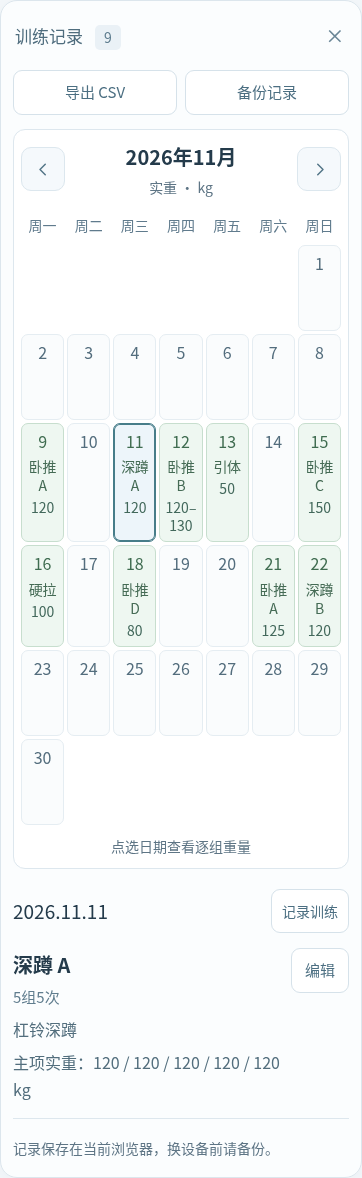
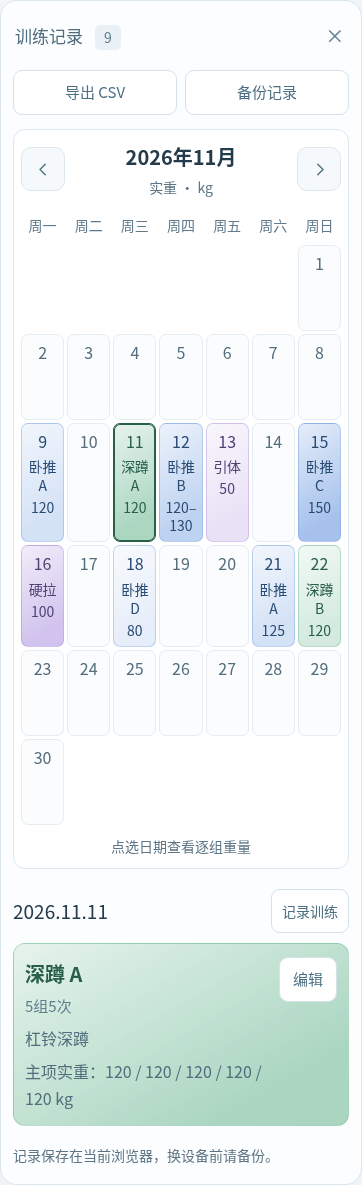
同步训练月历与模板配色

diff --git a/index.html b/index.html
@@ -61,26 +61,29 @@ h1 { font-size: 38px; font-weight: 600; line-height: 1.3; }
 .bench-templates,.other-templates { display: grid; grid-template-columns: repeat(4,minmax(240px,1fr)); gap: 18px; min-width: 0; overflow-x: auto; padding-bottom: 8px; scroll-snap-type: x proximity; }
 .calendar-cell { scroll-snap-align: start; }
 .equipment-note { display: block; margin-top: 14px; color: #456f65; font-size: 14px; line-height: 1.6; }
-.calendar-cell {
+[data-tone] {
   --card-rgb: 95 145 221;
   --card-ink: #284b74;
   --card-tint: .30;
+  --card-glass: linear-gradient(150deg,#ffffffbb,#ffffff1a 80%),rgb(var(--card-rgb) / var(--card-tint));
+}
+[data-tone="bench-c"] { --card-tint: .62; }
+[data-tone="bench-b"] { --card-tint: .46; }
+[data-tone="bench-d"] { --card-tint: .17; }
+[data-tone="squat-a"],[data-tone="squat-b"] { --card-rgb: 79 170 125; --card-ink: #285f48; }
+[data-tone="squat-a"] { --card-tint: .53; }
+[data-tone="squat-b"] { --card-tint: .27; }
+[data-tone="deadlift"],[data-tone="back"] { --card-rgb: 154 122 216; --card-ink: #514074; }
+[data-tone="deadlift"] { --card-tint: .50; }
+[data-tone="back"] { --card-tint: .25; }
+.calendar-cell {
   display: flex; flex-direction: column; min-width: 0; padding: 23px;
   border: 1px solid rgb(var(--card-rgb) / .34); border-radius: 17px;
-  background: linear-gradient(150deg,#ffffffbb,#ffffff1a 80%),rgb(var(--card-rgb) / var(--card-tint));
+  background: var(--card-glass);
   color: var(--ink); text-align: left;
   box-shadow: inset 0 1px 0 #ffffffd9,0 6px 18px #2843570a;
   transition: border-color .18s,box-shadow .18s,transform .18s;
 }
-[data-template="bench-c"] { --card-tint: .62; }
-[data-template="bench-b"] { --card-tint: .46; }
-[data-template="bench-d"] { --card-tint: .17; }
-[data-template="squat-a"],[data-template="squat-b"] { --card-rgb: 79 170 125; --card-ink: #285f48; }
-[data-template="squat-a"] { --card-tint: .53; }
-[data-template="squat-b"] { --card-tint: .27; }
-[data-template="deadlift"],[data-template="back"] { --card-rgb: 154 122 216; --card-ink: #514074; }
-[data-template="deadlift"] { --card-tint: .50; }
-[data-template="back"] { --card-tint: .25; }
 .calendar-cell > * { flex-shrink: 0; }
 .cell-top { display: flex; justify-content: space-between; align-items: center; gap: 10px; margin-bottom: 18px; }
 .cell-category { display: inline-flex; align-items: center; gap: 7px; color: #536f7d; font-size: 15px; font-weight: 500; }
@@ -121,22 +124,22 @@ h1 { font-size: 38px; font-weight: 600; line-height: 1.3; }
 .calendar-blank { border-color: transparent; background: transparent; }
 .record-day { display: flex; flex-direction: column; align-items: flex-start; gap: 5px; color: #536d7d; text-align: left; }
 .record-day-number { font-size: 18px; line-height: 1.35; font-variant-numeric: tabular-nums; }
-.record-day.has-records { background: #eef7f1; border-color: #c7dece; color: #3f6c50; }
-.record-day.selected { border-color: #477d89; box-shadow: inset 0 0 0 1px #477d89; background: #edf5fa; }
+.record-day[data-tone] { background: var(--card-glass); border-color: rgb(var(--card-rgb) / .34); color: var(--card-ink); }
+.record-day.selected { border-color: var(--card-ink, #477d89); box-shadow: inset 0 0 0 1px var(--card-ink, #477d89); }
 .month-scroll { overflow-x: auto; max-width: 100%; min-width: 0; overscroll-behavior-x: contain; scrollbar-width: thin; scrollbar-color: #aac3cf #f1f6f8; }
 .month-content { min-width: 560px; }
 .day-records { display: grid; gap: 9px; width: 100%; }
-.day-record { display: grid; gap: 4px; color: #456b55; font-size: 14px; line-height: 1.5; }
+.day-record { display: grid; gap: 4px; color: var(--card-ink, #536d7d); font-size: 14px; line-height: 1.5; }
 .day-record-load { display: none; }
-.day-record + .day-record { border-top: 1px solid #d3e3d9; padding-top: 8px; }
+.day-record[data-tone] { background: var(--card-glass); border: 1px solid rgb(var(--card-rgb) / .28); border-radius: 6px; padding: 4px; }
 .day-record strong { font-size: 15px; font-weight: 600; }
-.day-record-weights { color: #42685b; font-size: 14px; line-height: 1.6; font-variant-numeric: tabular-nums; }
+.day-record-weights { font-size: 14px; line-height: 1.6; font-variant-numeric: tabular-nums; }
 .calendar-scroll-hint { display: none; margin-top: 10px; color: var(--muted); font-size: 14px; }
 .history-main-lift { color: #496a7b; }
 .history-day-heading { display: flex; justify-content: space-between; align-items: center; gap: 16px; margin-top: 24px; }
 .history-day-heading h3 { font-size: 20px; font-weight: 500; font-variant-numeric: tabular-nums; }
-.history-row { display: grid; grid-template-columns: minmax(0,1fr) auto; align-items: center; gap: 16px; padding: 18px 0; border-bottom: 1px solid var(--line); }
-.history-row strong { font-size: 20px; font-weight: 600; }
+.history-row { display: grid; grid-template-columns: minmax(0,1fr) auto; align-items: center; gap: 16px; margin-top: 10px; padding: 16px; border: 1px solid rgb(var(--card-rgb) / .28); border-radius: 12px; background: var(--card-glass); }
+.history-row strong { font-size: 20px; font-weight: 600; color: var(--card-ink); }
 .history-dose { display: inline-block; margin-left: 10px; font-size: 15px; color: #607d8e; font-weight: 400; }
 .history-row p { color: #526e7d; font-size: 16px; line-height: 1.7; margin-top: 6px; }
 .history-weights { font-variant-numeric: tabular-nums; }
@@ -241,14 +244,15 @@ input:disabled,select:disabled { background: #eef4f8; color: #718b9b; }
   .record-day-number { font-size: 16px; }
   .day-records { gap: 5px; }
   .day-record { gap: 3px; line-height: 1.35; }
+  .day-record[data-tone] { padding: 3px 1px; }
   .day-record strong { font-size: 14px; font-weight: 500; letter-spacing: -.3px; }
   .day-record-weights { display: none; }
-  .day-record-load { display: block; color: #42685b; font-size: 14px; line-height: 1.3; font-variant-numeric: tabular-nums; }
+  .day-record-load { display: block; font-size: 14px; line-height: 1.3; font-variant-numeric: tabular-nums; }
   .calendar-scroll-hint { display: block; margin-top: 10px; font-size: 14px; text-align: center; }
   .history-day-heading { margin-top: 20px; gap: 10px; }
   .history-day-heading h3 { font-size: 19px; }
   .history-day-heading .outline-button { font-size: 14px; padding-inline: 10px; }
-  .history-row { gap: 10px; padding-block: 15px; align-items: start; }
+  .history-row { gap: 10px; padding: 13px 11px; align-items: start; }
   .history-row strong { font-size: 20px; }
   .history-dose { margin: 4px 0 0; display: block; font-size: 15px; }
   .history-row p { font-size: 16px; }
@@ -584,7 +588,7 @@ input:disabled,select:disabled { background: #eef4f8; color: #718b9b; }
   }
   function renderCard(t) {
     const category = t.type === "chest" ? "卧推" : t.type === "back" ? "背部" : "腿部";
-    return `<button type="button" class="calendar-cell" data-template="${t.id}" aria-haspopup="dialog" aria-label="记录${esc(t.title)}，${esc(t.kind)}">
+    return `<button type="button" class="calendar-cell" data-template="${t.id}" data-tone="${t.id}" aria-haspopup="dialog" aria-label="记录${esc(t.title)}，${esc(t.kind)}">
       <span class="cell-top"><span class="cell-category"><svg class="icon"><use href="#i-barbell" /></svg>${category}</span><span class="cell-kind">${t.kind}</span></span>
       <strong class="cell-main">${t.title}</strong>${renderWarmup(t.warmup)}${t.equalExercises ? `<span class="equal-exercises">${P.recordedExercises(t).map(a => `<span class="cell-aux-row"><span>${a.name}</span><span>${P.prescription(a)}</span></span>`).join("")}</span>` : `<span class="cell-primary"><span class="cell-exercise">${t.main.name}</span>
       <span class="cell-dose"><span>${P.prescription(t.main)}</span></span></span>
@@ -599,10 +603,10 @@ input:disabled,select:disabled { background: #eef4f8; color: #718b9b; }
   }
   function historyRow(record) {
     const t = record.snapshot || P.template(record.templateId), weight = weightText(record);
-    if (t?.equalExercises) return `<div class="history-row"><div><strong>${esc(t.title)}</strong>${P.recordedExercises(t).map((a, i) => `<p class="history-main-lift">${esc(a.name)}</p><p class="history-weights">${esc(P.actualWeightSummary({ snapshot: { main: a }, setWeights: i ? record.additionalWeights?.[a.id] : record.setWeights }))}</p>`).join("")}${record.notes ? `<p>${esc(record.notes)}</p>` : ""}</div><button type="button" class="edit-record" data-record="${esc(record.id)}">编辑</button></div>`;
+    if (t?.equalExercises) return `<div class="history-row" data-tone="${esc(record.templateId)}"><div><strong>${esc(t.title)}</strong>${P.recordedExercises(t).map((a, i) => `<p class="history-main-lift">${esc(a.name)}</p><p class="history-weights">${esc(P.actualWeightSummary({ snapshot: { main: a }, setWeights: i ? record.additionalWeights?.[a.id] : record.setWeights }))}</p>`).join("")}${record.notes ? `<p>${esc(record.notes)}</p>` : ""}</div><button type="button" class="edit-record" data-record="${esc(record.id)}">编辑</button></div>`;
     const result = record.result === "paused" ? "暂停" : record.result === "incomplete" ? "未完成" : "";
     const weightLine = t?.main?.showWeight === false ? "" : `<p class="history-weights">主项实重：${esc(weight || "未填写")}</p>`;
-    return `<div class="history-row"><div><strong>${esc(t?.title || "训练")}${t?.main ? `<span class="history-dose">${P.dose(t.main)}</span>` : ""}</strong>${t?.main ? `<p class="history-main-lift">${esc(t.main.name)}</p>` : ""}${weightLine}${result || record.notes ? `<p>${esc([result, record.notes].filter(Boolean).join(" · "))}</p>` : ""}</div><button type="button" class="edit-record" data-record="${esc(record.id)}" aria-label="编辑${dateText(record.date)}${esc(t?.title)}">编辑</button></div>`;
+    return `<div class="history-row" data-tone="${esc(record.templateId)}"><div><strong>${esc(t?.title || "训练")}${t?.main ? `<span class="history-dose">${P.dose(t.main)}</span>` : ""}</strong>${t?.main ? `<p class="history-main-lift">${esc(t.main.name)}</p>` : ""}${weightLine}${result || record.notes ? `<p>${esc([result, record.notes].filter(Boolean).join(" · "))}</p>` : ""}</div><button type="button" class="edit-record" data-record="${esc(record.id)}" aria-label="编辑${dateText(record.date)}${esc(t?.title)}">编辑</button></div>`;
   }
   function renderLegacy() {
     const groups = OLD_KEYS.map(key => ({ key, data: read(key) })).filter(x => x.data && x.data.version !== 16);
@@ -617,9 +621,15 @@ input:disabled,select:disabled { background: #eef4f8; color: #718b9b; }
     const oldScroll = $("#historyCalendar .month-scroll")?.scrollLeft || 0;
     $("#historyCalendar").innerHTML = `<div class="month-toolbar"><button type="button" class="icon-button" data-month-step="-1" aria-label="上一月"><svg class="icon"><use href="#i-chevron" /></svg></button><strong>${monthText}<small class="calendar-weight-unit">实重 · kg</small></strong><button type="button" class="icon-button next-month" data-month-step="1" aria-label="下一月"><svg class="icon"><use href="#i-chevron" /></svg></button></div><div class="month-scroll" tabindex="0" aria-label="训练月历，可横向滚动"><div class="month-content"><div class="record-weekdays">${["周一", "周二", "周三", "周四", "周五", "周六", "周日"].map(x => `<span>${x}</span>`).join("")}</div><div class="record-calendar-grid">${P.monthSlots(displayedMonth).map(date => {
       if (!date) return '<span class="calendar-blank" aria-hidden="true"></span>';
-      const records = state.records.filter(r => r.date === date), names = records.map(r => (r.snapshot || P.template(r.templateId)).title);
+      const records = state.records.filter(r => r.date === date);
       const summary = records.map(r => `${(r.snapshot || P.template(r.templateId)).title}，${P.actualWeightSummary(r)}`).join("；");
-      return `<button type="button" class="record-day ${records.length ? "has-records" : ""} ${date === selectedDate ? "selected" : ""}" data-log-date="${date}" aria-pressed="${date === selectedDate}" aria-label="${dateText(date)}${summary ? `，${esc(summary)}` : ""}"><span class="record-day-number">${Number(date.slice(8))}</span>${records.length ? `<span class="day-records">${records.map(r => `<span class="day-record"><strong>${esc((r.snapshot || P.template(r.templateId)).title)}</strong><span class="day-record-weights">${esc(P.actualWeightSummary(r))}</span><span class="day-record-load">${esc(compactWeightText(r))}</span></span>`).join("")}</span>` : ""}</button>`;
+      const dayTone = records.length === 1 ? `data-tone="${esc(records[0].templateId)}"` : "";
+      const entries = records.map(record => {
+        const title = (record.snapshot || P.template(record.templateId)).title;
+        const entryTone = records.length > 1 ? `data-tone="${esc(record.templateId)}"` : "";
+        return `<span class="day-record" ${entryTone}><strong>${esc(title)}</strong><span class="day-record-weights">${esc(P.actualWeightSummary(record))}</span><span class="day-record-load">${esc(compactWeightText(record))}</span></span>`;
+      }).join("");
+      return `<button type="button" class="record-day ${records.length ? "has-records" : ""} ${date === selectedDate ? "selected" : ""}" data-log-date="${date}" ${dayTone} aria-pressed="${date === selectedDate}" aria-label="${dateText(date)}${summary ? `，${esc(summary)}` : ""}"><span class="record-day-number">${Number(date.slice(8))}</span>${entries ? `<span class="day-records">${entries}</span>` : ""}</button>`;
     }).join("")}</div></div></div><p class="calendar-scroll-hint">点选日期查看逐组重量</p>`;
     $("#historyCalendar .month-scroll").scrollLeft = oldScroll;
     ensureSelectedDayVisible();

diff --git a/项目资料/src/app.js b/项目资料/src/app.js
@@ -86,7 +86,7 @@
   }
   function renderCard(t) {
     const category = t.type === "chest" ? "卧推" : t.type === "back" ? "背部" : "腿部";
-    return `<button type="button" class="calendar-cell" data-template="${t.id}" aria-haspopup="dialog" aria-label="记录${esc(t.title)}，${esc(t.kind)}">
+    return `<button type="button" class="calendar-cell" data-template="${t.id}" data-tone="${t.id}" aria-haspopup="dialog" aria-label="记录${esc(t.title)}，${esc(t.kind)}">
       <span class="cell-top"><span class="cell-category"><svg class="icon"><use href="#i-barbell" /></svg>${category}</span><span class="cell-kind">${t.kind}</span></span>
       <strong class="cell-main">${t.title}</strong>${renderWarmup(t.warmup)}${t.equalExercises ? `<span class="equal-exercises">${P.recordedExercises(t).map(a => `<span class="cell-aux-row"><span>${a.name}</span><span>${P.prescription(a)}</span></span>`).join("")}</span>` : `<span class="cell-primary"><span class="cell-exercise">${t.main.name}</span>
       <span class="cell-dose"><span>${P.prescription(t.main)}</span></span></span>
@@ -101,10 +101,10 @@
   }
   function historyRow(record) {
     const t = record.snapshot || P.template(record.templateId), weight = weightText(record);
-    if (t?.equalExercises) return `<div class="history-row"><div><strong>${esc(t.title)}</strong>${P.recordedExercises(t).map((a, i) => `<p class="history-main-lift">${esc(a.name)}</p><p class="history-weights">${esc(P.actualWeightSummary({ snapshot: { main: a }, setWeights: i ? record.additionalWeights?.[a.id] : record.setWeights }))}</p>`).join("")}${record.notes ? `<p>${esc(record.notes)}</p>` : ""}</div><button type="button" class="edit-record" data-record="${esc(record.id)}">编辑</button></div>`;
+    if (t?.equalExercises) return `<div class="history-row" data-tone="${esc(record.templateId)}"><div><strong>${esc(t.title)}</strong>${P.recordedExercises(t).map((a, i) => `<p class="history-main-lift">${esc(a.name)}</p><p class="history-weights">${esc(P.actualWeightSummary({ snapshot: { main: a }, setWeights: i ? record.additionalWeights?.[a.id] : record.setWeights }))}</p>`).join("")}${record.notes ? `<p>${esc(record.notes)}</p>` : ""}</div><button type="button" class="edit-record" data-record="${esc(record.id)}">编辑</button></div>`;
     const result = record.result === "paused" ? "暂停" : record.result === "incomplete" ? "未完成" : "";
     const weightLine = t?.main?.showWeight === false ? "" : `<p class="history-weights">主项实重：${esc(weight || "未填写")}</p>`;
-    return `<div class="history-row"><div><strong>${esc(t?.title || "训练")}${t?.main ? `<span class="history-dose">${P.dose(t.main)}</span>` : ""}</strong>${t?.main ? `<p class="history-main-lift">${esc(t.main.name)}</p>` : ""}${weightLine}${result || record.notes ? `<p>${esc([result, record.notes].filter(Boolean).join(" · "))}</p>` : ""}</div><button type="button" class="edit-record" data-record="${esc(record.id)}" aria-label="编辑${dateText(record.date)}${esc(t?.title)}">编辑</button></div>`;
+    return `<div class="history-row" data-tone="${esc(record.templateId)}"><div><strong>${esc(t?.title || "训练")}${t?.main ? `<span class="history-dose">${P.dose(t.main)}</span>` : ""}</strong>${t?.main ? `<p class="history-main-lift">${esc(t.main.name)}</p>` : ""}${weightLine}${result || record.notes ? `<p>${esc([result, record.notes].filter(Boolean).join(" · "))}</p>` : ""}</div><button type="button" class="edit-record" data-record="${esc(record.id)}" aria-label="编辑${dateText(record.date)}${esc(t?.title)}">编辑</button></div>`;
   }
   function renderLegacy() {
     const groups = OLD_KEYS.map(key => ({ key, data: read(key) })).filter(x => x.data && x.data.version !== 16);
@@ -119,9 +119,15 @@
     const oldScroll = $("#historyCalendar .month-scroll")?.scrollLeft || 0;
     $("#historyCalendar").innerHTML = `<div class="month-toolbar"><button type="button" class="icon-button" data-month-step="-1" aria-label="上一月"><svg class="icon"><use href="#i-chevron" /></svg></button><strong>${monthText}<small class="calendar-weight-unit">实重 · kg</small></strong><button type="button" class="icon-button next-month" data-month-step="1" aria-label="下一月"><svg class="icon"><use href="#i-chevron" /></svg></button></div><div class="month-scroll" tabindex="0" aria-label="训练月历，可横向滚动"><div class="month-content"><div class="record-weekdays">${["周一", "周二", "周三", "周四", "周五", "周六", "周日"].map(x => `<span>${x}</span>`).join("")}</div><div class="record-calendar-grid">${P.monthSlots(displayedMonth).map(date => {
       if (!date) return '<span class="calendar-blank" aria-hidden="true"></span>';
-      const records = state.records.filter(r => r.date === date), names = records.map(r => (r.snapshot || P.template(r.templateId)).title);
+      const records = state.records.filter(r => r.date === date);
       const summary = records.map(r => `${(r.snapshot || P.template(r.templateId)).title}，${P.actualWeightSummary(r)}`).join("；");
-      return `<button type="button" class="record-day ${records.length ? "has-records" : ""} ${date === selectedDate ? "selected" : ""}" data-log-date="${date}" aria-pressed="${date === selectedDate}" aria-label="${dateText(date)}${summary ? `，${esc(summary)}` : ""}"><span class="record-day-number">${Number(date.slice(8))}</span>${records.length ? `<span class="day-records">${records.map(r => `<span class="day-record"><strong>${esc((r.snapshot || P.template(r.templateId)).title)}</strong><span class="day-record-weights">${esc(P.actualWeightSummary(r))}</span><span class="day-record-load">${esc(compactWeightText(r))}</span></span>`).join("")}</span>` : ""}</button>`;
+      const dayTone = records.length === 1 ? `data-tone="${esc(records[0].templateId)}"` : "";
+      const entries = records.map(record => {
+        const title = (record.snapshot || P.template(record.templateId)).title;
+        const entryTone = records.length > 1 ? `data-tone="${esc(record.templateId)}"` : "";
+        return `<span class="day-record" ${entryTone}><strong>${esc(title)}</strong><span class="day-record-weights">${esc(P.actualWeightSummary(record))}</span><span class="day-record-load">${esc(compactWeightText(record))}</span></span>`;
+      }).join("");
+      return `<button type="button" class="record-day ${records.length ? "has-records" : ""} ${date === selectedDate ? "selected" : ""}" data-log-date="${date}" ${dayTone} aria-pressed="${date === selectedDate}" aria-label="${dateText(date)}${summary ? `，${esc(summary)}` : ""}"><span class="record-day-number">${Number(date.slice(8))}</span>${entries ? `<span class="day-records">${entries}</span>` : ""}</button>`;
     }).join("")}</div></div></div><p class="calendar-scroll-hint">点选日期查看逐组重量</p>`;
     $("#historyCalendar .month-scroll").scrollLeft = oldScroll;
     ensureSelectedDayVisible();

diff --git a/项目资料/src/styles.css b/项目资料/src/styles.css
@@ -48,26 +48,29 @@ h1 { font-size: 38px; font-weight: 600; line-height: 1.3; }
 .bench-templates,.other-templates { display: grid; grid-template-columns: repeat(4,minmax(240px,1fr)); gap: 18px; min-width: 0; overflow-x: auto; padding-bottom: 8px; scroll-snap-type: x proximity; }
 .calendar-cell { scroll-snap-align: start; }
 .equipment-note { display: block; margin-top: 14px; color: #456f65; font-size: 14px; line-height: 1.6; }
-.calendar-cell {
+[data-tone] {
   --card-rgb: 95 145 221;
   --card-ink: #284b74;
   --card-tint: .30;
+  --card-glass: linear-gradient(150deg,#ffffffbb,#ffffff1a 80%),rgb(var(--card-rgb) / var(--card-tint));
+}
+[data-tone="bench-c"] { --card-tint: .62; }
+[data-tone="bench-b"] { --card-tint: .46; }
+[data-tone="bench-d"] { --card-tint: .17; }
+[data-tone="squat-a"],[data-tone="squat-b"] { --card-rgb: 79 170 125; --card-ink: #285f48; }
+[data-tone="squat-a"] { --card-tint: .53; }
+[data-tone="squat-b"] { --card-tint: .27; }
+[data-tone="deadlift"],[data-tone="back"] { --card-rgb: 154 122 216; --card-ink: #514074; }
+[data-tone="deadlift"] { --card-tint: .50; }
+[data-tone="back"] { --card-tint: .25; }
+.calendar-cell {
   display: flex; flex-direction: column; min-width: 0; padding: 23px;
   border: 1px solid rgb(var(--card-rgb) / .34); border-radius: 17px;
-  background: linear-gradient(150deg,#ffffffbb,#ffffff1a 80%),rgb(var(--card-rgb) / var(--card-tint));
+  background: var(--card-glass);
   color: var(--ink); text-align: left;
   box-shadow: inset 0 1px 0 #ffffffd9,0 6px 18px #2843570a;
   transition: border-color .18s,box-shadow .18s,transform .18s;
 }
-[data-template="bench-c"] { --card-tint: .62; }
-[data-template="bench-b"] { --card-tint: .46; }
-[data-template="bench-d"] { --card-tint: .17; }
-[data-template="squat-a"],[data-template="squat-b"] { --card-rgb: 79 170 125; --card-ink: #285f48; }
-[data-template="squat-a"] { --card-tint: .53; }
-[data-template="squat-b"] { --card-tint: .27; }
-[data-template="deadlift"],[data-template="back"] { --card-rgb: 154 122 216; --card-ink: #514074; }
-[data-template="deadlift"] { --card-tint: .50; }
-[data-template="back"] { --card-tint: .25; }
 .calendar-cell > * { flex-shrink: 0; }
 .cell-top { display: flex; justify-content: space-between; align-items: center; gap: 10px; margin-bottom: 18px; }
 .cell-category { display: inline-flex; align-items: center; gap: 7px; color: #536f7d; font-size: 15px; font-weight: 500; }
@@ -108,22 +111,22 @@ h1 { font-size: 38px; font-weight: 600; line-height: 1.3; }
 .calendar-blank { border-color: transparent; background: transparent; }
 .record-day { display: flex; flex-direction: column; align-items: flex-start; gap: 5px; color: #536d7d; text-align: left; }
 .record-day-number { font-size: 18px; line-height: 1.35; font-variant-numeric: tabular-nums; }
-.record-day.has-records { background: #eef7f1; border-color: #c7dece; color: #3f6c50; }
-.record-day.selected { border-color: #477d89; box-shadow: inset 0 0 0 1px #477d89; background: #edf5fa; }
+.record-day[data-tone] { background: var(--card-glass); border-color: rgb(var(--card-rgb) / .34); color: var(--card-ink); }
+.record-day.selected { border-color: var(--card-ink, #477d89); box-shadow: inset 0 0 0 1px var(--card-ink, #477d89); }
 .month-scroll { overflow-x: auto; max-width: 100%; min-width: 0; overscroll-behavior-x: contain; scrollbar-width: thin; scrollbar-color: #aac3cf #f1f6f8; }
 .month-content { min-width: 560px; }
 .day-records { display: grid; gap: 9px; width: 100%; }
-.day-record { display: grid; gap: 4px; color: #456b55; font-size: 14px; line-height: 1.5; }
+.day-record { display: grid; gap: 4px; color: var(--card-ink, #536d7d); font-size: 14px; line-height: 1.5; }
 .day-record-load { display: none; }
-.day-record + .day-record { border-top: 1px solid #d3e3d9; padding-top: 8px; }
+.day-record[data-tone] { background: var(--card-glass); border: 1px solid rgb(var(--card-rgb) / .28); border-radius: 6px; padding: 4px; }
 .day-record strong { font-size: 15px; font-weight: 600; }
-.day-record-weights { color: #42685b; font-size: 14px; line-height: 1.6; font-variant-numeric: tabular-nums; }
+.day-record-weights { font-size: 14px; line-height: 1.6; font-variant-numeric: tabular-nums; }
 .calendar-scroll-hint { display: none; margin-top: 10px; color: var(--muted); font-size: 14px; }
 .history-main-lift { color: #496a7b; }
 .history-day-heading { display: flex; justify-content: space-between; align-items: center; gap: 16px; margin-top: 24px; }
 .history-day-heading h3 { font-size: 20px; font-weight: 500; font-variant-numeric: tabular-nums; }
-.history-row { display: grid; grid-template-columns: minmax(0,1fr) auto; align-items: center; gap: 16px; padding: 18px 0; border-bottom: 1px solid var(--line); }
-.history-row strong { font-size: 20px; font-weight: 600; }
+.history-row { display: grid; grid-template-columns: minmax(0,1fr) auto; align-items: center; gap: 16px; margin-top: 10px; padding: 16px; border: 1px solid rgb(var(--card-rgb) / .28); border-radius: 12px; background: var(--card-glass); }
+.history-row strong { font-size: 20px; font-weight: 600; color: var(--card-ink); }
 .history-dose { display: inline-block; margin-left: 10px; font-size: 15px; color: #607d8e; font-weight: 400; }
 .history-row p { color: #526e7d; font-size: 16px; line-height: 1.7; margin-top: 6px; }
 .history-weights { font-variant-numeric: tabular-nums; }
@@ -228,14 +231,15 @@ input:disabled,select:disabled { background: #eef4f8; color: #718b9b; }
   .record-day-number { font-size: 16px; }
   .day-records { gap: 5px; }
   .day-record { gap: 3px; line-height: 1.35; }
+  .day-record[data-tone] { padding: 3px 1px; }
   .day-record strong { font-size: 14px; font-weight: 500; letter-spacing: -.3px; }
   .day-record-weights { display: none; }
-  .day-record-load { display: block; color: #42685b; font-size: 14px; line-height: 1.3; font-variant-numeric: tabular-nums; }
+  .day-record-load { display: block; font-size: 14px; line-height: 1.3; font-variant-numeric: tabular-nums; }
   .calendar-scroll-hint { display: block; margin-top: 10px; font-size: 14px; text-align: center; }
   .history-day-heading { margin-top: 20px; gap: 10px; }
   .history-day-heading h3 { font-size: 19px; }
   .history-day-heading .outline-button { font-size: 14px; padding-inline: 10px; }
-  .history-row { gap: 10px; padding-block: 15px; align-items: start; }
+  .history-row { gap: 10px; padding: 13px 11px; align-items: start; }
   .history-row strong { font-size: 20px; }
   .history-dose { margin: 4px 0 0; display: block; font-size: 15px; }
   .history-row p { font-size: 16px; }
